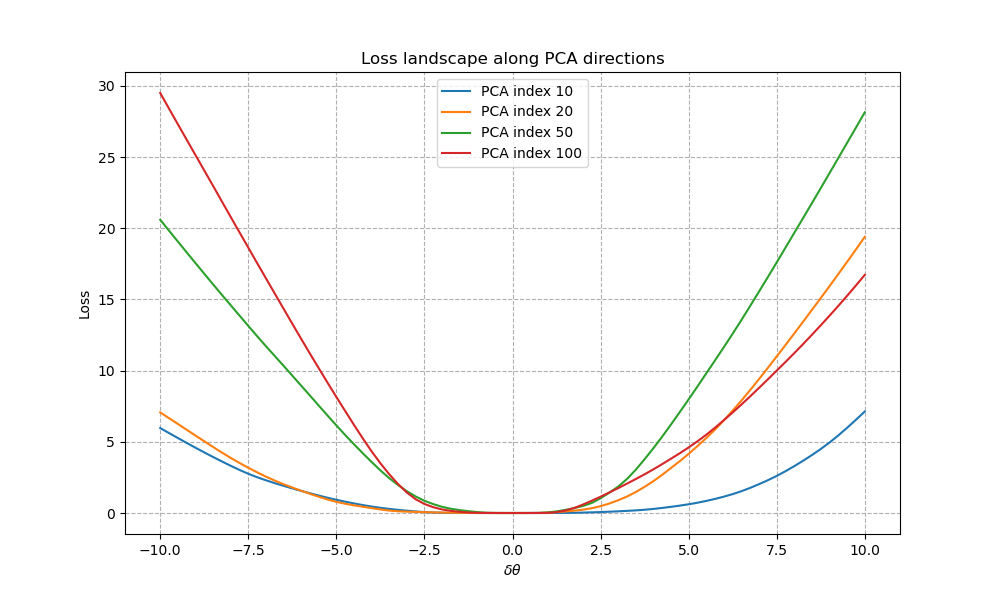
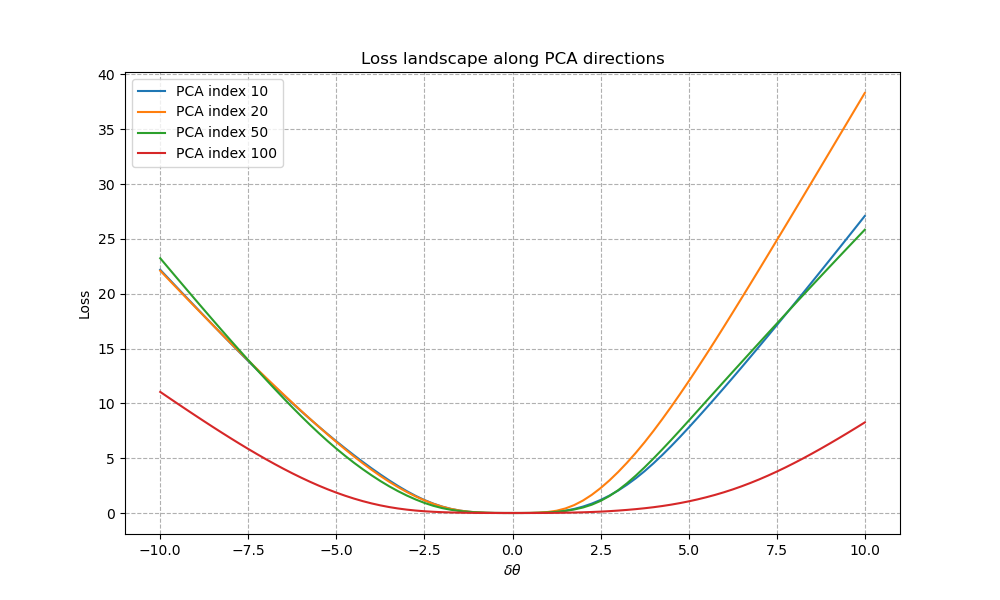
try to fix flatness graph - maybe issue is eval_loader vs sub_loader but eval_loader takes way too long to calculate

diff --git a/configs.py b/configs.py
@@ -7,6 +7,6 @@ CONFIGS = {
     "learning_rate": 0.1,
     "batch_size": 64,
     "num_components": 500,
-    "loss_sample_batch_size": 100,
+    "loss_sample_batch_size": 5000,
     "device": torch.device("cuda" if torch.cuda.is_available() else "cpu")
 }
